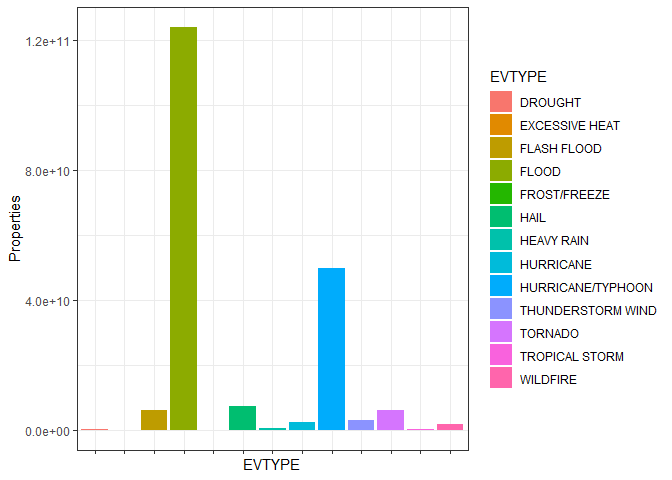
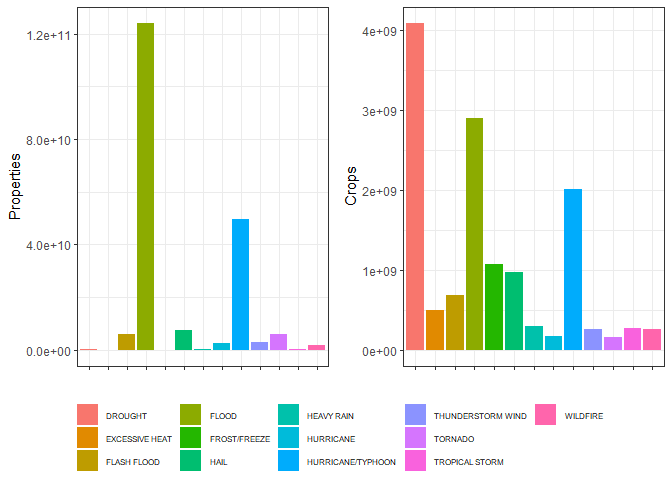
arranging plots

diff --git a/NOAAanalysis.md b/NOAAanalysis.md
@@ -33,6 +33,7 @@ First, load the R libraries that will be used and set system locale to avoid con
 library(ggplot2, warn.conflicts = F)
 library(dplyr, quietly = T, warn.conflicts = F)
 library(data.table, quietly = T, warn.conflicts = F)
+library(ggpubr, quietly = T, warn.conflicts = F)
 Sys.setlocale('LC_ALL','English')  
 ```
 
@@ -167,22 +168,23 @@ summary(health)[,2:3]
 ```
 
 ```r
-ggplot(health, aes(fill = EVTYPE,x = EVTYPE, y = Injuries)) + 
+plt1<- ggplot(health, aes(fill = EVTYPE,x = EVTYPE, y = Injuries)) + 
         geom_bar(stat='identity') +
         theme_bw() +
-        scale_x_discrete(labels=NULL)
+        scale_x_discrete(labels=NULL) + 
+  theme(legend.text = element_text(size=6),legend.title = element_blank()) + 
+  labs(x = '')
+
+plt2 <- ggplot(health, aes(fill = EVTYPE,x = EVTYPE, y = Fatalities)) + 
+        geom_bar(stat='identity') +
+        theme_bw() +
+        scale_x_discrete(labels=NULL)  + theme(legend.text = element_text(size=6),legend.title = element_blank()) + 
+  labs(x = '')
+
+ggarrange(plt1, plt2, common.legend = TRUE, legend = "bottom")
 ```
 
 ![](NOAAanalysis_files/figure-html/unnamed-chunk-8-1.png)<!-- -->
-
-```r
-ggplot(health, aes(fill = EVTYPE,x = EVTYPE, y = Fatalities)) + 
-        geom_bar(stat='identity') +
-        theme_bw() +
-        scale_x_discrete(labels=NULL)
-```
-
-![](NOAAanalysis_files/figure-html/unnamed-chunk-8-2.png)<!-- -->
 
 It can be seen excessive heat and tornadoes are the ones to make more injuries and to have more fatalities. Some attention must be given to flash floods too, which are very deadly.  
 
@@ -210,24 +212,27 @@ summary(healthforstate)[,3:4]
 ```
 
 ```r
-ggplot(healthforstate, aes(fill = EVTYPE,x = EVTYPE, y = Injuries)) + 
+plt3<-ggplot(healthforstate, aes(fill = EVTYPE,x = EVTYPE, y = Injuries)) + 
         geom_bar(stat='identity') +
         facet_wrap(. ~ STATE) +
         theme_bw() +
-        scale_x_discrete(labels=NULL)
+        scale_x_discrete(labels=NULL) + 
+  theme(legend.text = element_text(size=6),legend.title = element_blank()) + 
+  labs(x = '')
+
+
+plt4<-ggplot(healthforstate, aes(fill = EVTYPE,x = EVTYPE, y = Fatalities)) + 
+        geom_bar(stat='identity') +
+        facet_wrap(. ~ STATE) +
+        theme_bw() +
+        scale_x_discrete(labels=NULL)  + 
+  theme(legend.text = element_text(size=6),legend.title = element_blank()) + 
+  labs(x = '')
+
+ggarrange(plt3, plt4, common.legend = TRUE, legend = "bottom")
 ```
 
 ![](NOAAanalysis_files/figure-html/unnamed-chunk-9-1.png)<!-- -->
-
-```r
-ggplot(healthforstate, aes(fill = EVTYPE,x = EVTYPE, y = Fatalities)) + 
-        geom_bar(stat='identity') +
-        facet_wrap(. ~ STATE) +
-        theme_bw() +
-        scale_x_discrete(labels=NULL)
-```
-
-![](NOAAanalysis_files/figure-html/unnamed-chunk-9-2.png)<!-- -->
 
 Tornadoes seem to be a big problem for health in most states, but excessive heat hits Missouri very hard.  
 
@@ -262,22 +267,23 @@ summary(dmg)[,2:3]
 ```
 
 ```r
-ggplot(dmg, aes(fill = EVTYPE,x = EVTYPE, y = Properties)) + 
+plt5<-ggplot(dmg, aes(fill = EVTYPE,x = EVTYPE, y = Properties)) + 
         geom_bar(stat='identity') +
         theme_bw() +
-        scale_x_discrete(labels=NULL)
+        scale_x_discrete(labels=NULL)+ theme(legend.text = element_text(size=6),legend.title = element_blank()) + 
+  labs(x = '')
+
+
+plt6<-ggplot(dmg, aes(fill = EVTYPE,x = EVTYPE, y = Crops)) + 
+        geom_bar(stat='identity') +
+        theme_bw() +
+        scale_x_discrete(labels=NULL)+ theme(legend.text = element_text(size=6),legend.title = element_blank()) + 
+  labs(x = '')
+
+ggarrange(plt5, plt6, common.legend = TRUE, legend = "bottom")
 ```
 
 ![](NOAAanalysis_files/figure-html/unnamed-chunk-10-1.png)<!-- -->
-
-```r
-ggplot(dmg, aes(fill = EVTYPE,x = EVTYPE, y = Crops)) + 
-        geom_bar(stat='identity') +
-        theme_bw() +
-        scale_x_discrete(labels=NULL)
-```
-
-![](NOAAanalysis_files/figure-html/unnamed-chunk-10-2.png)<!-- -->
 
 It can be seen floods and hurricanes are the ones to make more property and crop damage. Some attention must be given to drought too, which costs the highest to crops.  
 
